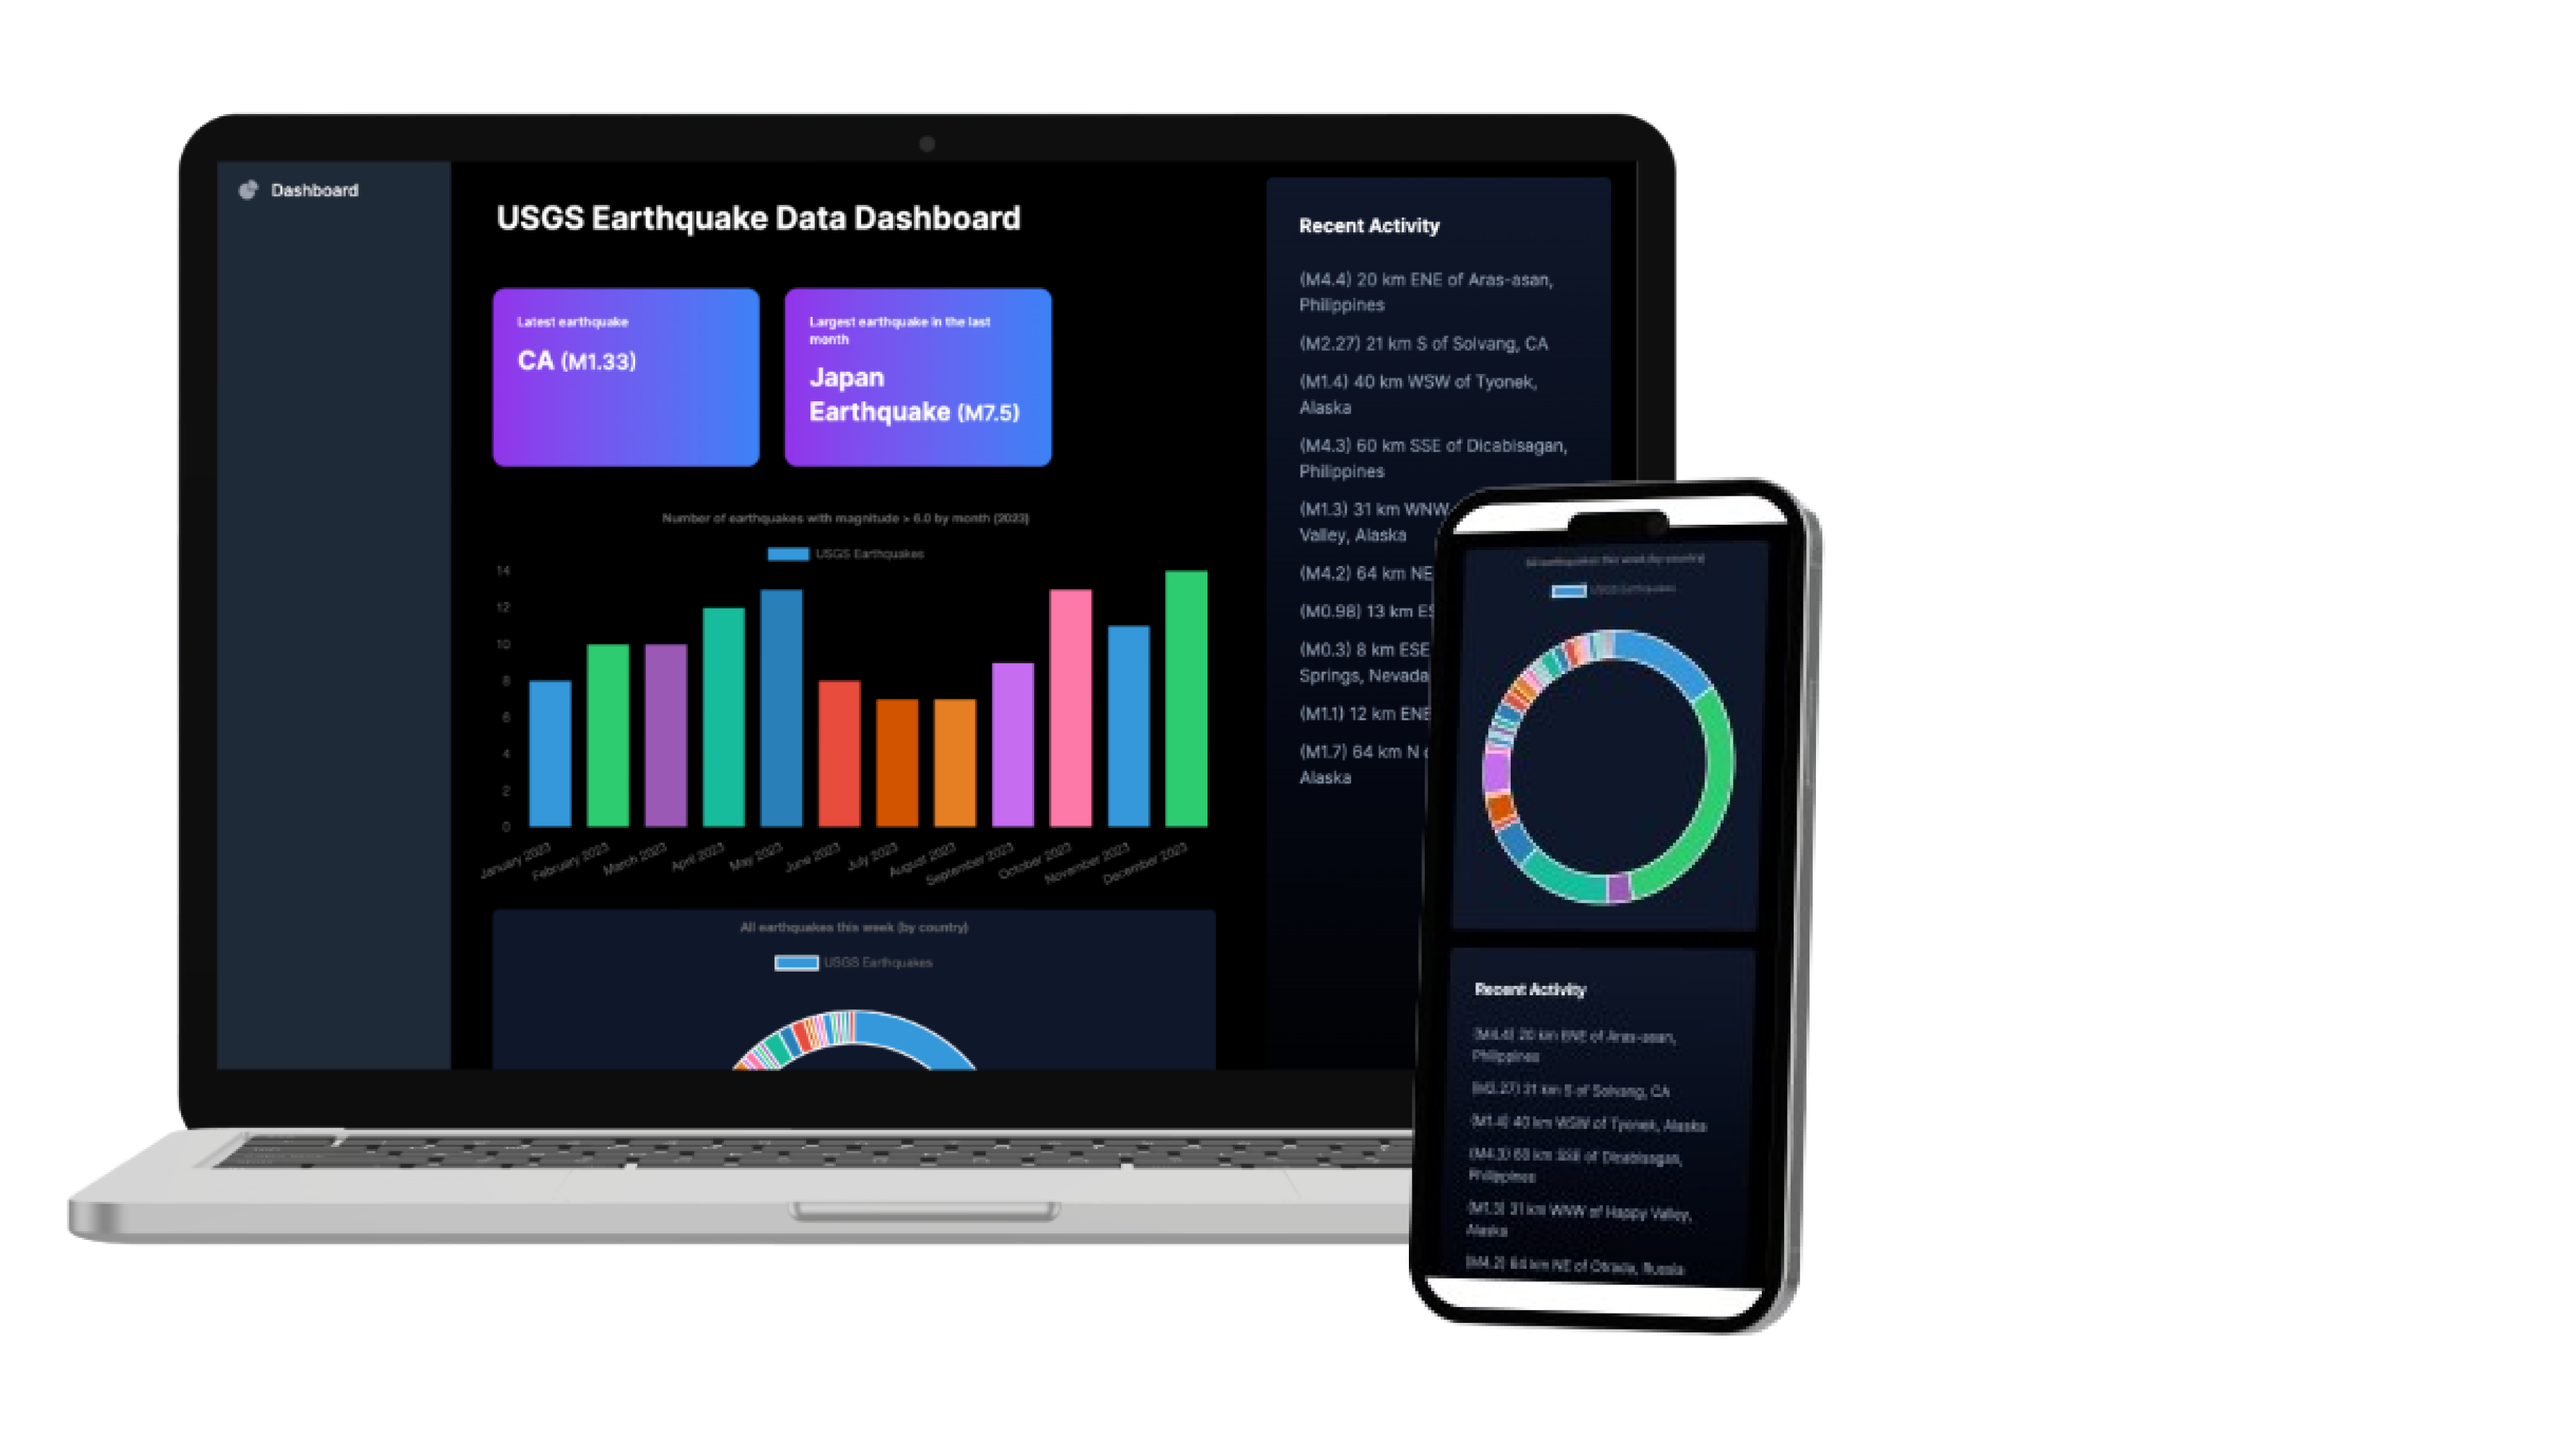
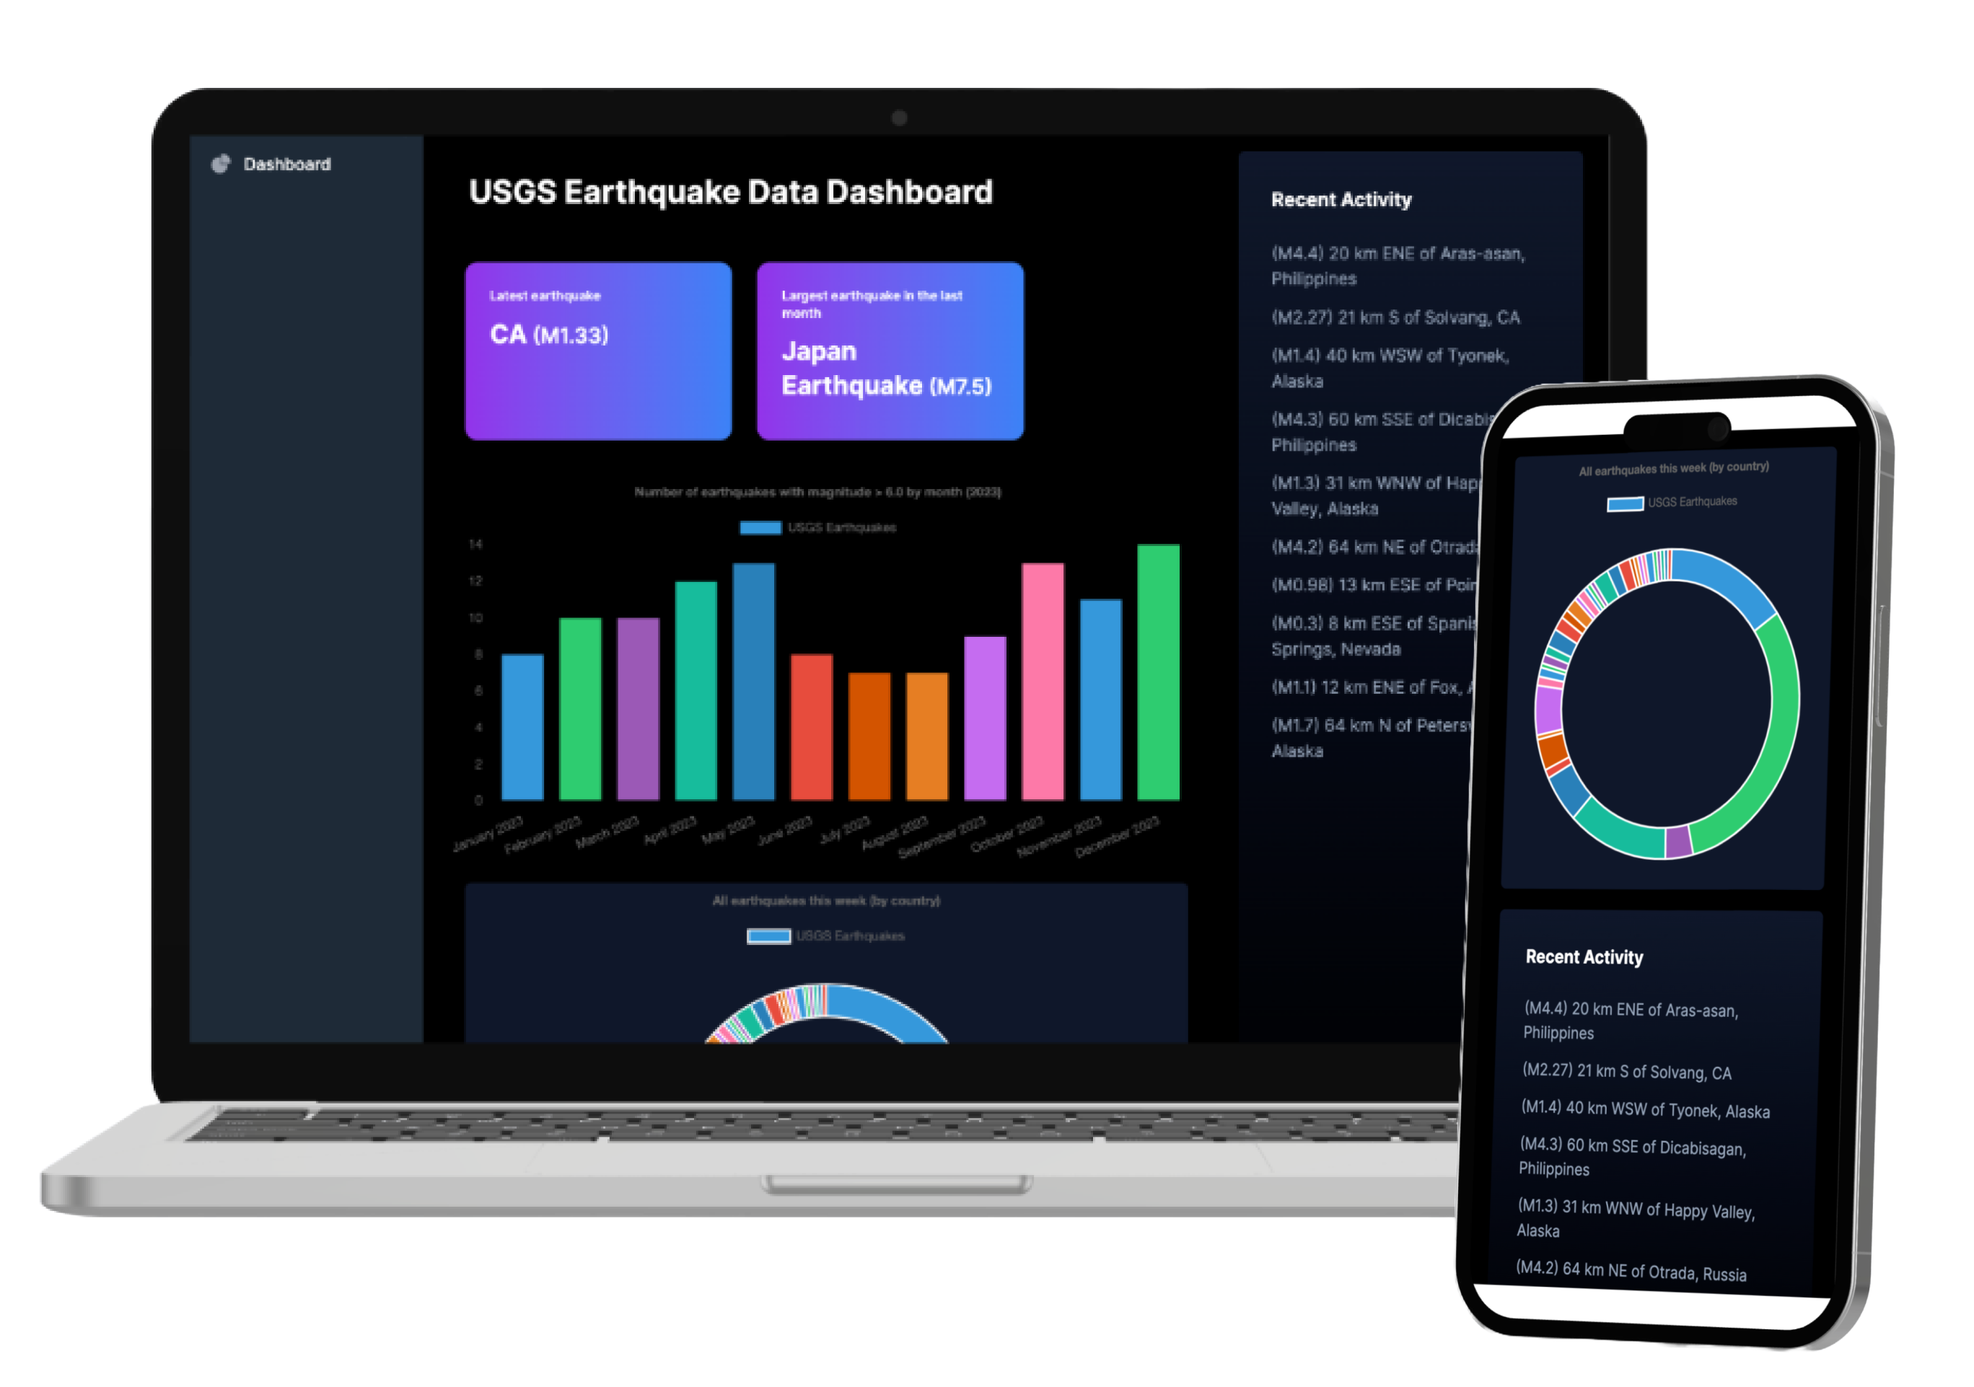
High res phone img & style changes

diff --git a/src/components/LandingPage.tsx b/src/components/LandingPage.tsx
@@ -13,8 +13,8 @@ const LandingPage = React.forwardRef((props, ref) => {
       className="w-full h-screen items-center justify-center px-5 md:px-12 lg:px-10 bg-white sm:py"
       style={{ position: "sticky", top: "0" }}
     >
-      <div className="grid grid-cols-1 md:grid-cols-2 w-full h-screen items-center justify-center  bg-white py-4 sm:py">
-        <div className="flex flex-col gap-3 h-full pt-20">
+      <div className="grid grid-cols-1 grid-rows-3 md:grid-rows-1 gap-3 md:grid-cols-2 w-full items-center justify-center  bg-white py-4 sm:py md:h-screen">
+        <div className="flex flex-col gap-3 h-full pt-16 md:pt-32 row-span-2 md:row-span-1 text-center md:text-left">
           <h1
             style={{ color: "#1c0c65", fontWeight: 300 }}
             className={`mb-2 uppercase leading-none md:mb-3 landing-title font-extralight ${outfit.className}`}
@@ -40,14 +40,17 @@ const LandingPage = React.forwardRef((props, ref) => {
           href="https://usgs-earthquake-dashboard.netlify.app/"
           // className="landing-image"
           target="_blank"
-          className="relative pt-20"
-          style={{ marginRight: "-190px" }}
+          className="relative md:pt-20 h-full md:h-1/2"
+          // style={{ marginRight: "-190px" }}
         >
           <Image
             alt="Image of a mobile phone screen"
             src={"/assets/device-mock-desktop.png"}
-            height={300}
-            width={950}
+            sizes="500px"
+            fill
+            style={{
+              objectFit: "contain",
+            }}
           />
         </Link>
       </div>
